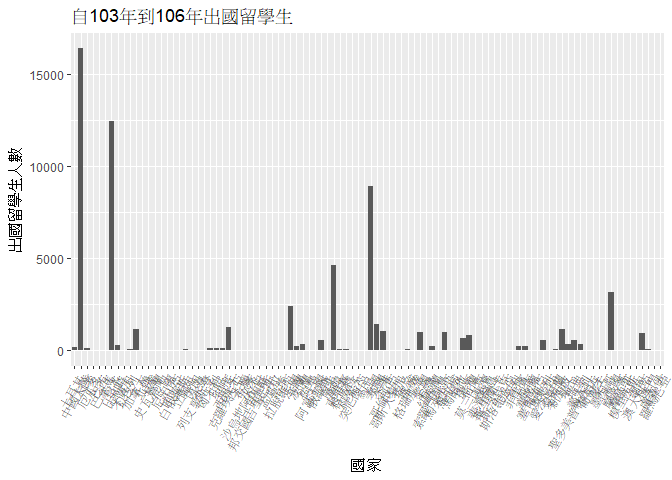
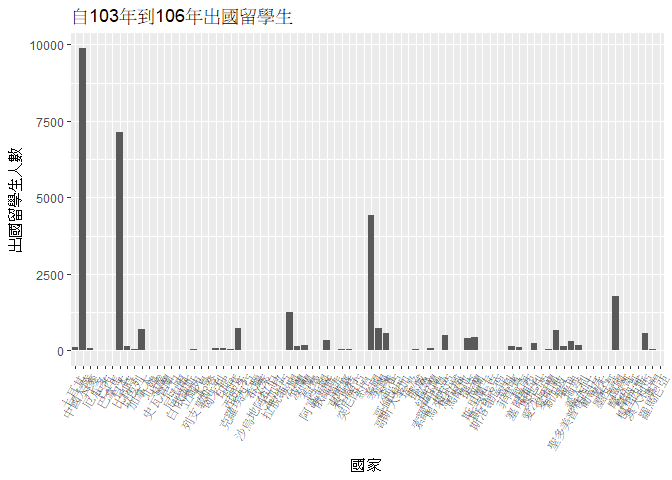
Done_2

diff --git a/InternationalStudents.md b/InternationalStudents.md
@@ -307,39 +307,29 @@ CountriesComparisionTable<-
     ## )
 
 ``` r
-#沿用上題作出的簡化作圖資料
-EnglihCountries<-c()
-for(i in 1:nrow(dataToBar)){
-  for(j in 1:nrow(CountriesComparisionTable)){
-    #將資料中代表國家欄位的資料取出再用對照表格建立對照英文國名表
-    if(dataToBar[i,"國別"]==CountriesComparisionTable[j,"Taiwan"]){
-      EnglihCountries<-c(EnglihCountries,CountriesComparisionTable[j,"English"])
-      break
-    }else if(dataToBar[i,"國別"]!=CountriesComparisionTable[j,"Taiwan"]&j==273)
-      EnglihCountries<-c(EnglihCountries,"Unmatch")#若沒有對照的英文則存成Unmatch
-  }
-}
-dataToBar$Country<-array(unlist(EnglihCountries))#將剛做好的英文對照名稱表加入表格
+CountriesComparisionTable$ISO3<-NULL#清除不必要的欄位
+#將英文的國家名稱加入表格
+dataToBar<-left_join(dataToBar,CountriesComparisionTable,by=c("國別"="Taiwan"))
 #若要以choroplethr作面量圖的話必須是一個只有region和value欄位的dataframe
-choropleth = data.frame(region=dataToBar$Country, value=dataToBar$最終總人數)
-#因為用choroplethr做面量圖不能有重複的資料，刪除重複的資料(也就是剛剛Unmatch的資料)
+choropleth = data.frame(region=dataToBar$English, value=dataToBar$最終總人數)
+#因為用choroplethr做面量圖不能有重複的資料，刪除重複的資料(也就是Unmatch或NA的資料)
 choropleth<-choropleth[!duplicated(choropleth$region),]
 #以country level來作面量圖，並存放至foreginstudent_choropleth
 foreginstudent_choropleth<-
-  country_choropleth(choropleth,"自103年到106年各國來台學生")+
+  country_choropleth(choropleth,"自103年到106年各國來台學生",num_colors=9)+
     scale_fill_brewer("總人數",palette=1)
 ```
 
     ## Warning in super$initialize(country.map, user.df): Your data.frame contains
-    ## the following regions which are not mappable: Unmatch, Singapore
+    ## the following regions which are not mappable: Unmatch, Singapore, NA
 
-    ## Warning: Column `region` has different attributes on LHS and RHS of join
+    ## Warning: Column `region` joining character vector and factor, coercing into
+    ## character vector
 
-    ## Warning in self$bind(): The following regions were missing and are being
-    ## set to NA: afghanistan, angola, montenegro, qatar, western sahara, south
-    ## sudan, somaliland, east timor, taiwan, vanuatu, central african republic,
-    ## northern cyprus, djibouti, eritrea, antarctica, equatorial guinea, kosovo,
-    ## lesotho
+    ## Warning in self$bind(): The following regions were missing and are
+    ## being set to NA: afghanistan, angola, montenegro, qatar, western sahara,
+    ## somaliland, east timor, taiwan, vanuatu, central african republic, northern
+    ## cyprus, djibouti, eritrea, antarctica, equatorial guinea, kosovo, lesotho
 
     ## Scale for 'fill' is already present. Adding another scale for 'fill',
     ## which will replace the existing scale.
@@ -393,6 +383,7 @@ TaiwanStudent<-
 #取出各個國家和總人數欄位
 TaiwanStudent_clean<-
   TaiwanStudent%>%
+    filter(學年度>=103)%>%
     group_by(對方學校.機構.國別.地區.)%>%
     summarise(總人數=sum(小計))%>%
     arrange(desc(總人數))
@@ -434,7 +425,9 @@ TaiwanStudent_clean<-
   summarise(總人數=sum(總人數))%>%
   arrange(desc(總人數))
 #將剛剛差異較大的名稱的row移除
-TaiwanStudent_clean<-TaiwanStudent_clean[-c(4,8,9,21,35,70),]
+TaiwanStudent_clean<-TaiwanStudent_clean[
+  !grepl("大陸地區|(南韓)|(泰國)|德意志|蒙古國|印度尼西亞",
+         TaiwanStudent_clean$對方學校.機構.國別.地區.),]
 ```
 
 ### 台灣大專院校的學生最喜歡去哪些國家進修交流呢？
@@ -449,16 +442,16 @@ TaiwanStudent_clean%>%
 
 | 對方學校.機構.國別.地區. | 總人數 |
 |:-------------------------|:------:|
-| 中國大陸                 |  16425 |
-| 日本                     |  12430 |
-| 美國                     |  8916  |
-| 南韓                     |  4629  |
-| 德國                     |  3164  |
-| 法國                     |  2415  |
-| 英國                     |  1416  |
-| 西班牙                   |  1252  |
-| 加拿大                   |  1180  |
-| 新加坡                   |  1157  |
+| 中國大陸                 |  9891  |
+| 日本                     |  7142  |
+| 美國                     |  4427  |
+| 德國                     |  1764  |
+| 法國                     |  1258  |
+| 英國                     |   742  |
+| 西班牙                   |   721  |
+| 加拿大                   |   689  |
+| 新加坡                   |   673  |
+| 香港                     |   572  |
 
 ### 哪間大學的出國交流學生數最多呢？
 
@@ -514,53 +507,42 @@ ggplot(dataToBAR,aes(對方學校.機構.國別.地區.,總人數))+
 ### 台灣大專院校的學生最喜歡去哪些國家進修交流面量圖
 
 ``` r
-#沿用最一開始的中英文國名對照表
-EnglihCountries<-c()
-for(i in 1:nrow(TaiwanStudent_clean)){
-  for(j in 1:nrow(CountriesComparisionTable)){
-    #將要畫表格的資料中代表國家欄位的資料取出再用對照表格建立對照英文國名
-    if(TaiwanStudent_clean[i,"對方學校.機構.國別.地區."]==
-       CountriesComparisionTable[j,"Taiwan"]){
-      EnglihCountries<-c(EnglihCountries,CountriesComparisionTable[j,"English"])
-      break
-    }else if(TaiwanStudent_clean[i,"對方學校.機構.國別.地區."]!=
-             CountriesComparisionTable[j,"Taiwan"]&j==273)
-      EnglihCountries<-c(EnglihCountries,"Unmatch")#若沒有對照的英文則存成Unmatch
-  }
-}
-#將剛做好的英文對照名稱加入表格
-TaiwanStudent_clean$Country<-array(unlist(EnglihCountries))
+#將英文國家名稱加入資料表
+TaiwanStudent_clean<-left_join(TaiwanStudent_clean,CountriesComparisionTable,
+                               by=c("對方學校.機構.國別.地區."="Taiwan"))
 #若要以choroplethr作面量圖的話必須是一個只有region和value欄位的dataframe
-choropleth = data.frame(region=TaiwanStudent_clean$Country, value=TaiwanStudent_clean$總人數)
+choropleth = data.frame(region=TaiwanStudent_clean$English, value=TaiwanStudent_clean$總人數)
 #因為用choroplethr做面量圖不能有重複的資料，刪除重複的資料(也就是剛剛Unmatch的資料)
 choropleth<-choropleth[!duplicated(choropleth$region),]
 #以country level來作面量圖，並存放至TaiwanStudent_choropleth中
 TaiwanStudent_choropleth<-
-  country_choropleth(choropleth,"自103年到106年大專院校出國留學生")+
+  country_choropleth(choropleth,"自103年到106年大專院校出國留學生",num_colors=9)+
     scale_fill_brewer("總人數",palette=2)
 ```
 
     ## Warning in super$initialize(country.map, user.df): Your data.frame contains
-    ## the following regions which are not mappable: Singapore, Unmatch
+    ## the following regions which are not mappable: Singapore, Unmatch, NA
 
-    ## Warning: Column `region` has different attributes on LHS and RHS of join
+    ## Warning: Column `region` joining character vector and factor, coercing into
+    ## character vector
 
     ## Warning in self$bind(): The following regions were missing and are being
     ## set to NA: angola, azerbaijan, moldova, madagascar, macedonia, mali,
-    ## montenegro, mauritania, burundi, namibia, nigeria, nicaragua, pakistan,
-    ## papua new guinea, benin, paraguay, rwanda, western sahara, sudan, burkina
-    ## faso, south sudan, senegal, sierra leone, el salvador, somaliland,
-    ## somalia, suriname, syria, chad, togo, tajikistan, turkmenistan, east
-    ## timor, bulgaria, trinidad and tobago, taiwan, united republic of tanzania,
-    ## uganda, ukraine, uruguay, uzbekistan, the bahamas, venezuela, vanuatu,
-    ## yemen, zambia, zimbabwe, bosnia and herzegovina, albania, bolivia, bhutan,
-    ## botswana, central african republic, united arab emirates, ivory coast,
-    ## cameroon, democratic republic of the congo, republic of congo, cuba,
-    ## northern cyprus, cyprus, argentina, djibouti, dominican republic, algeria,
-    ## eritrea, armenia, ethiopia, gabon, georgia, ghana, antarctica, guinea,
-    ## guinea bissau, equatorial guinea, guatemala, guyana, honduras, haiti,
-    ## iraq, kazakhstan, kenya, kyrgyzstan, kosovo, laos, lebanon, liberia, libya,
-    ## lesotho
+    ## myanmar, montenegro, mozambique, mauritania, burundi, namibia, nigeria,
+    ## nicaragua, pakistan, papua new guinea, north korea, benin, paraguay,
+    ## rwanda, western sahara, sudan, burkina faso, south sudan, senegal, sierra
+    ## leone, el salvador, somaliland, somalia, suriname, syria, chad, togo,
+    ## thailand, tajikistan, turkmenistan, east timor, bulgaria, trinidad and
+    ## tobago, taiwan, united republic of tanzania, uganda, ukraine, uruguay,
+    ## uzbekistan, the bahamas, venezuela, vanuatu, yemen, zambia, zimbabwe,
+    ## bosnia and herzegovina, albania, belize, bolivia, bhutan, botswana, central
+    ## african republic, united arab emirates, ivory coast, cameroon, democratic
+    ## republic of the congo, republic of congo, cuba, northern cyprus, cyprus,
+    ## argentina, djibouti, dominican republic, algeria, eritrea, armenia,
+    ## ethiopia, fiji, gabon, georgia, ghana, antarctica, guinea, gambia, guinea
+    ## bissau, equatorial guinea, guatemala, guyana, honduras, haiti, iran, iraq,
+    ## jamaica, kazakhstan, kenya, kyrgyzstan, kosovo, laos, lebanon, liberia,
+    ## libya, lesotho, luxembourg
 
     ## Scale for 'fill' is already present. Adding another scale for 'fill',
     ## which will replace the existing scale.
@@ -628,32 +610,23 @@ Exchangestudent%>%
 ### 台灣學生最喜歡去哪些國家留學面量圖
 
 ``` r
-EnglihCountries<-c()
-for(i in 1:nrow(Exchangestudent)){
-  for(j in 1:nrow(CountriesComparisionTable)){
-    #將要畫表格的資料中代表國家欄位的資料取出再用對照表格建立對照英文國名
-   if(Exchangestudent[i,"國別"]==CountriesComparisionTable[j,"Taiwan"]){
-     EnglihCountries<-c(EnglihCountries,CountriesComparisionTable[j,"English"])
-     break
-   }else if(Exchangestudent[i,"國別"]!=CountriesComparisionTable[j,"Taiwan"]&j==273)
-     EnglihCountries<-c(EnglihCountries,"Unmatch")#若沒有對照的英文則存成Unmatch
-  }
-}
-#將剛做好的英文對照名稱加入表格
-Exchangestudent$Country<-array(unlist(EnglihCountries))
+#將英文國家名稱加入資料表
+Exchangestudent<-left_join(Exchangestudent,CountriesComparisionTable,
+                               by=c("國別"="Taiwan"))
 #若要以choroplethr作面量圖的話必須是一個只有region和value欄位的dataframe
-choropleth = data.frame(region=Exchangestudent$Country, value=Exchangestudent$總人數)
+choropleth = data.frame(region=Exchangestudent$English, value=Exchangestudent$總人數)
 #因為用choroplethr做面量圖不能有重複的資料，刪除重複的資料(也就是剛剛Unmatch的資料)
 choropleth<-choropleth[!duplicated(choropleth$region),]
 #以country level來作面量圖
-country_choropleth(choropleth,"世界各主要國家之我國留學生")+
+country_choropleth(choropleth,"世界各主要國家之我國留學生",num_colors=9)+
   scale_fill_brewer("總人數",palette=8)
 ```
 
     ## Warning in super$initialize(country.map, user.df): Your data.frame contains
     ## the following regions which are not mappable: Singapore
 
-    ## Warning: Column `region` has different attributes on LHS and RHS of join
+    ## Warning: Column `region` joining character vector and factor, coercing into
+    ## character vector
 
     ## Warning in self$bind(): The following regions were missing and are being
     ## set to NA: afghanistan, angola, azerbaijan, moldova, madagascar, mexico,
